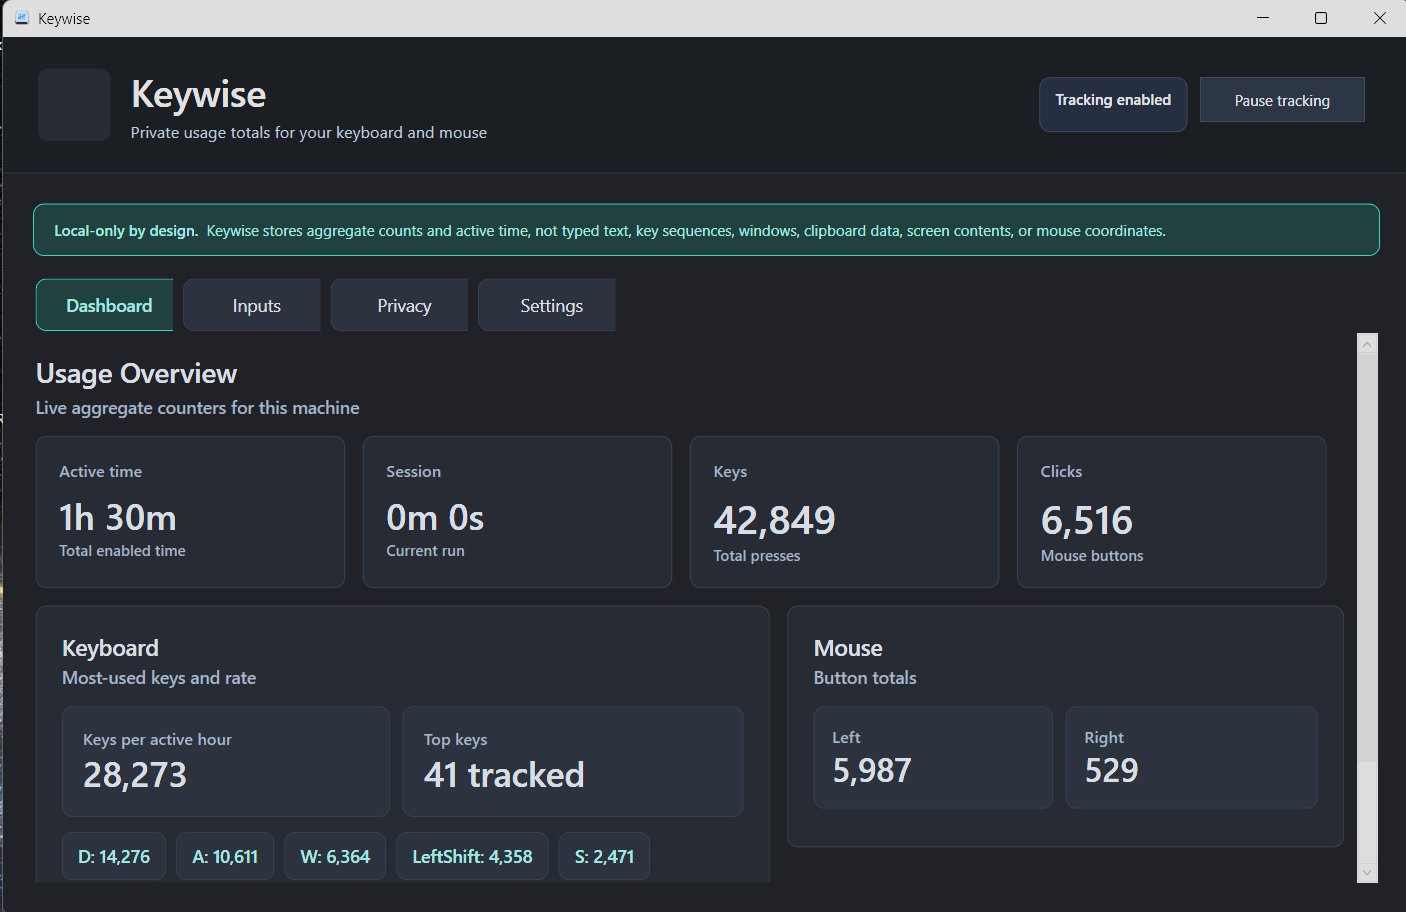
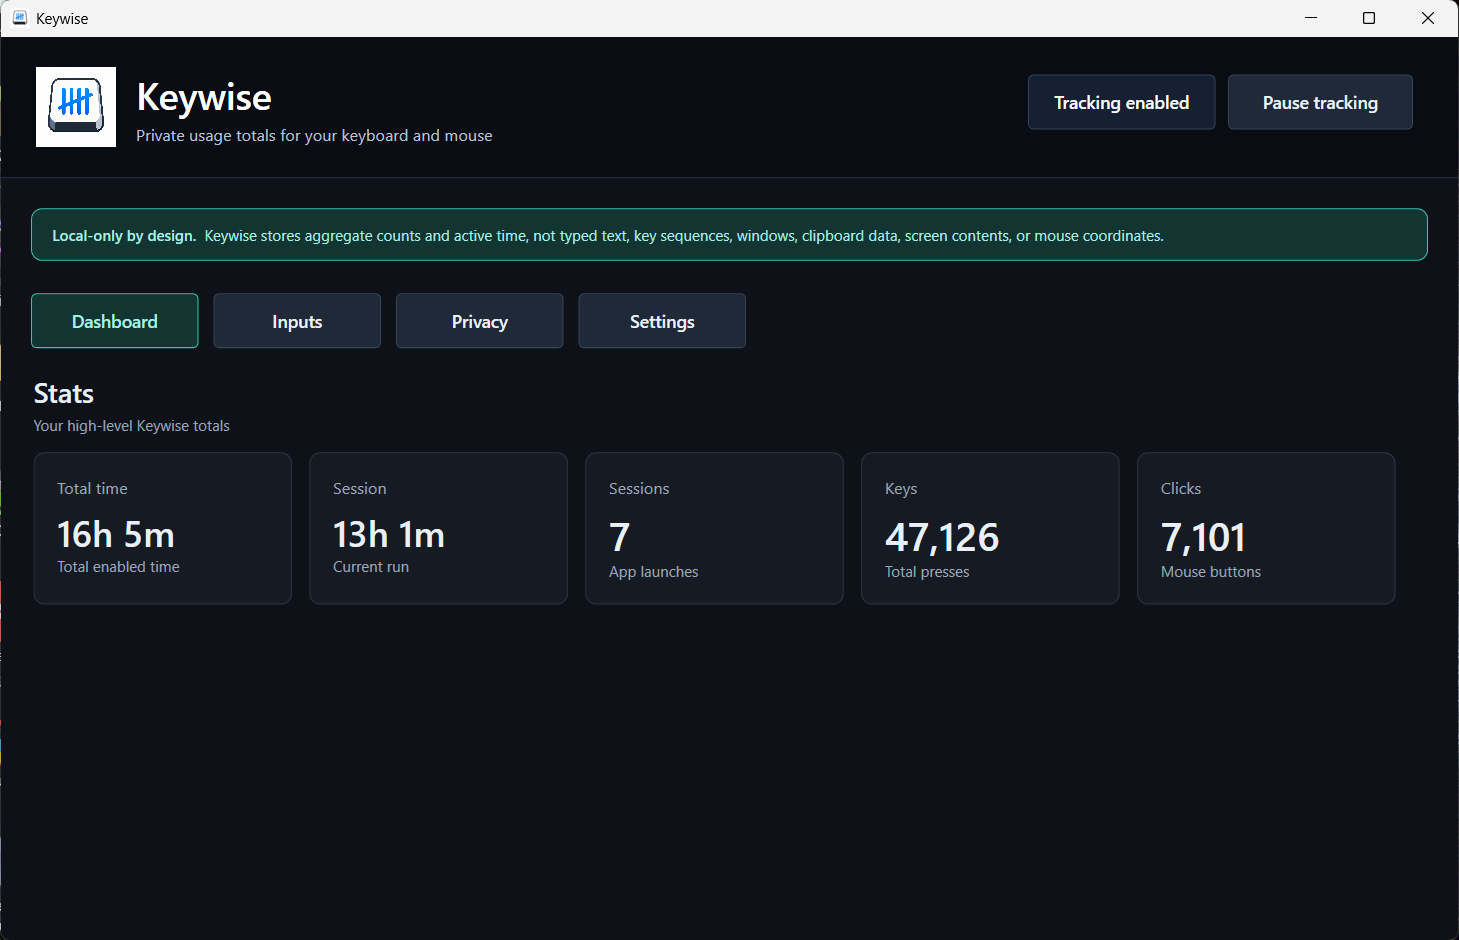
Refresh README screenshots

diff --git a/README.md b/README.md
@@ -22,7 +22,9 @@ The app currently includes:
 
 ![Keywise dashboard](docs/screenshots/keywise-dashboard.png)
 
-![Keywise navigation](docs/screenshots/keywise-navigation.png)
+![Keywise inputs](docs/screenshots/keywise-inputs.png)
+
+![Keywise settings](docs/screenshots/keywise-settings.png)
 
 ## Privacy Model
 